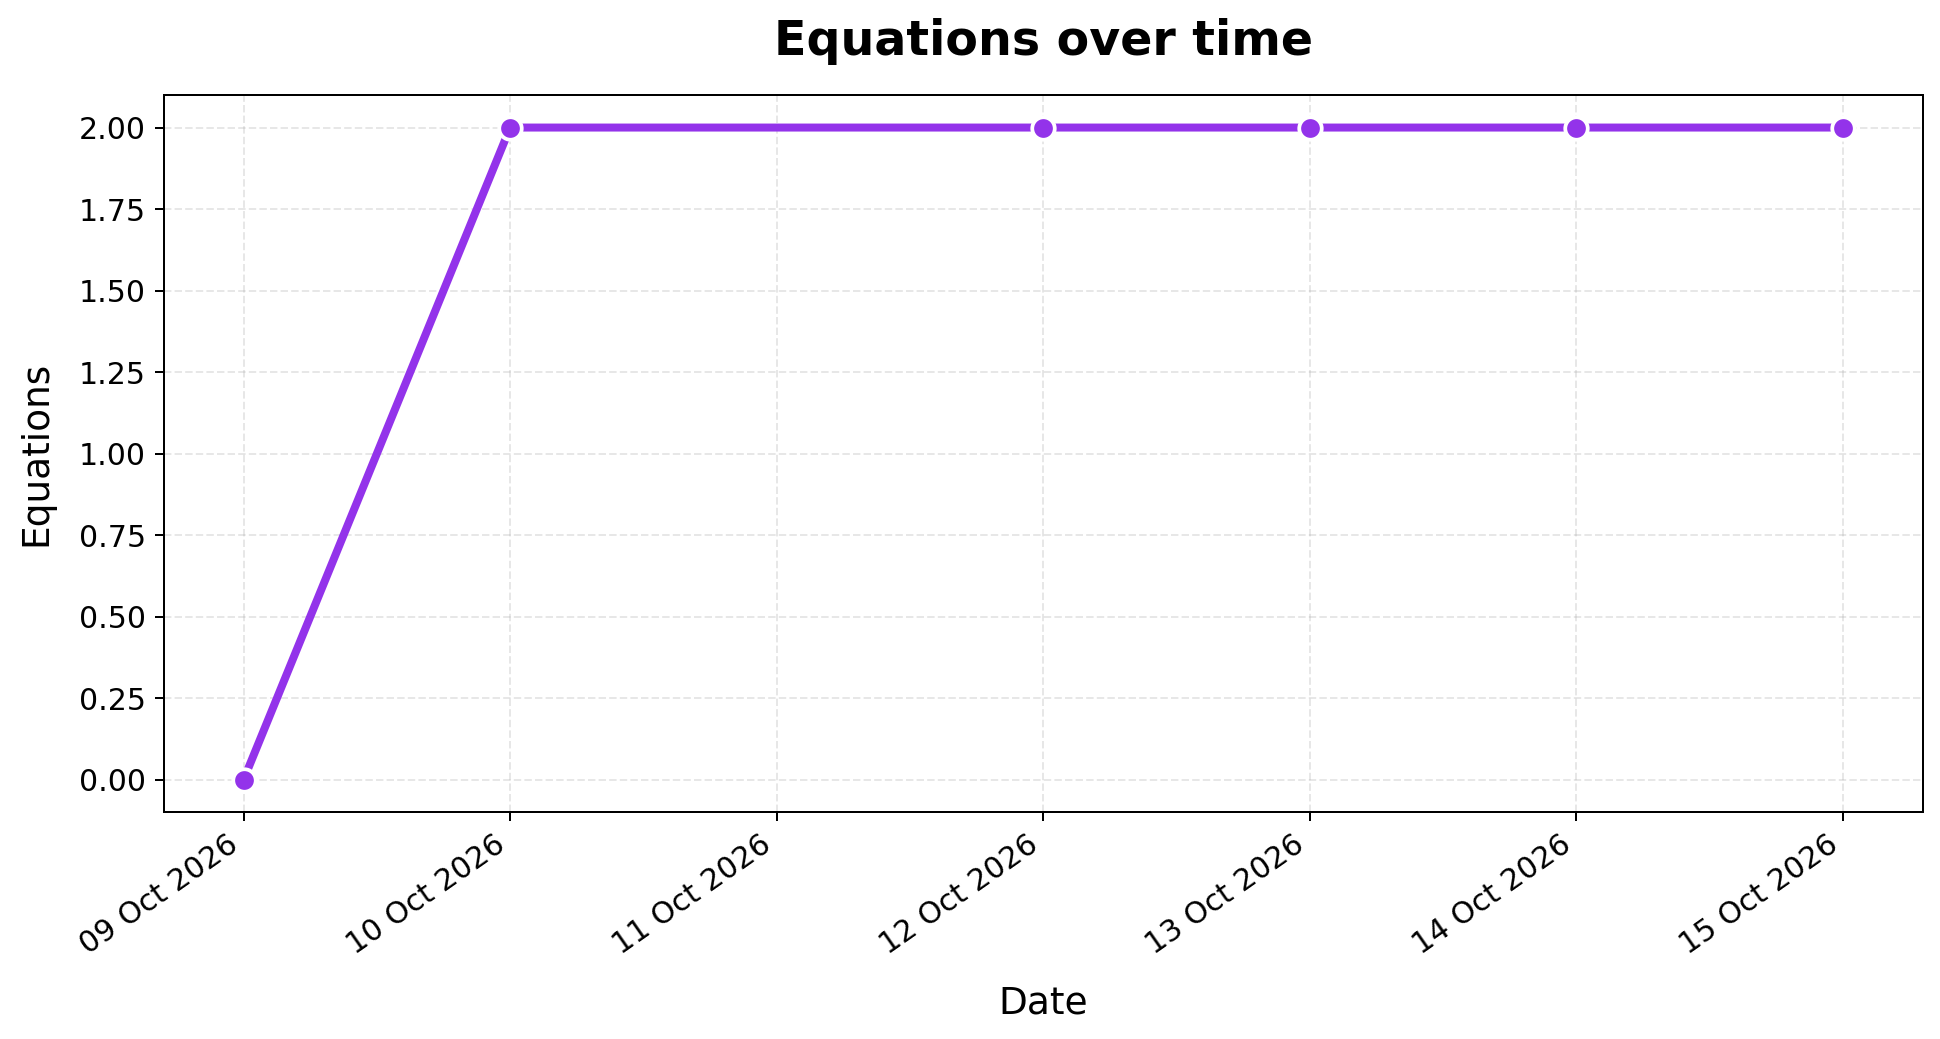
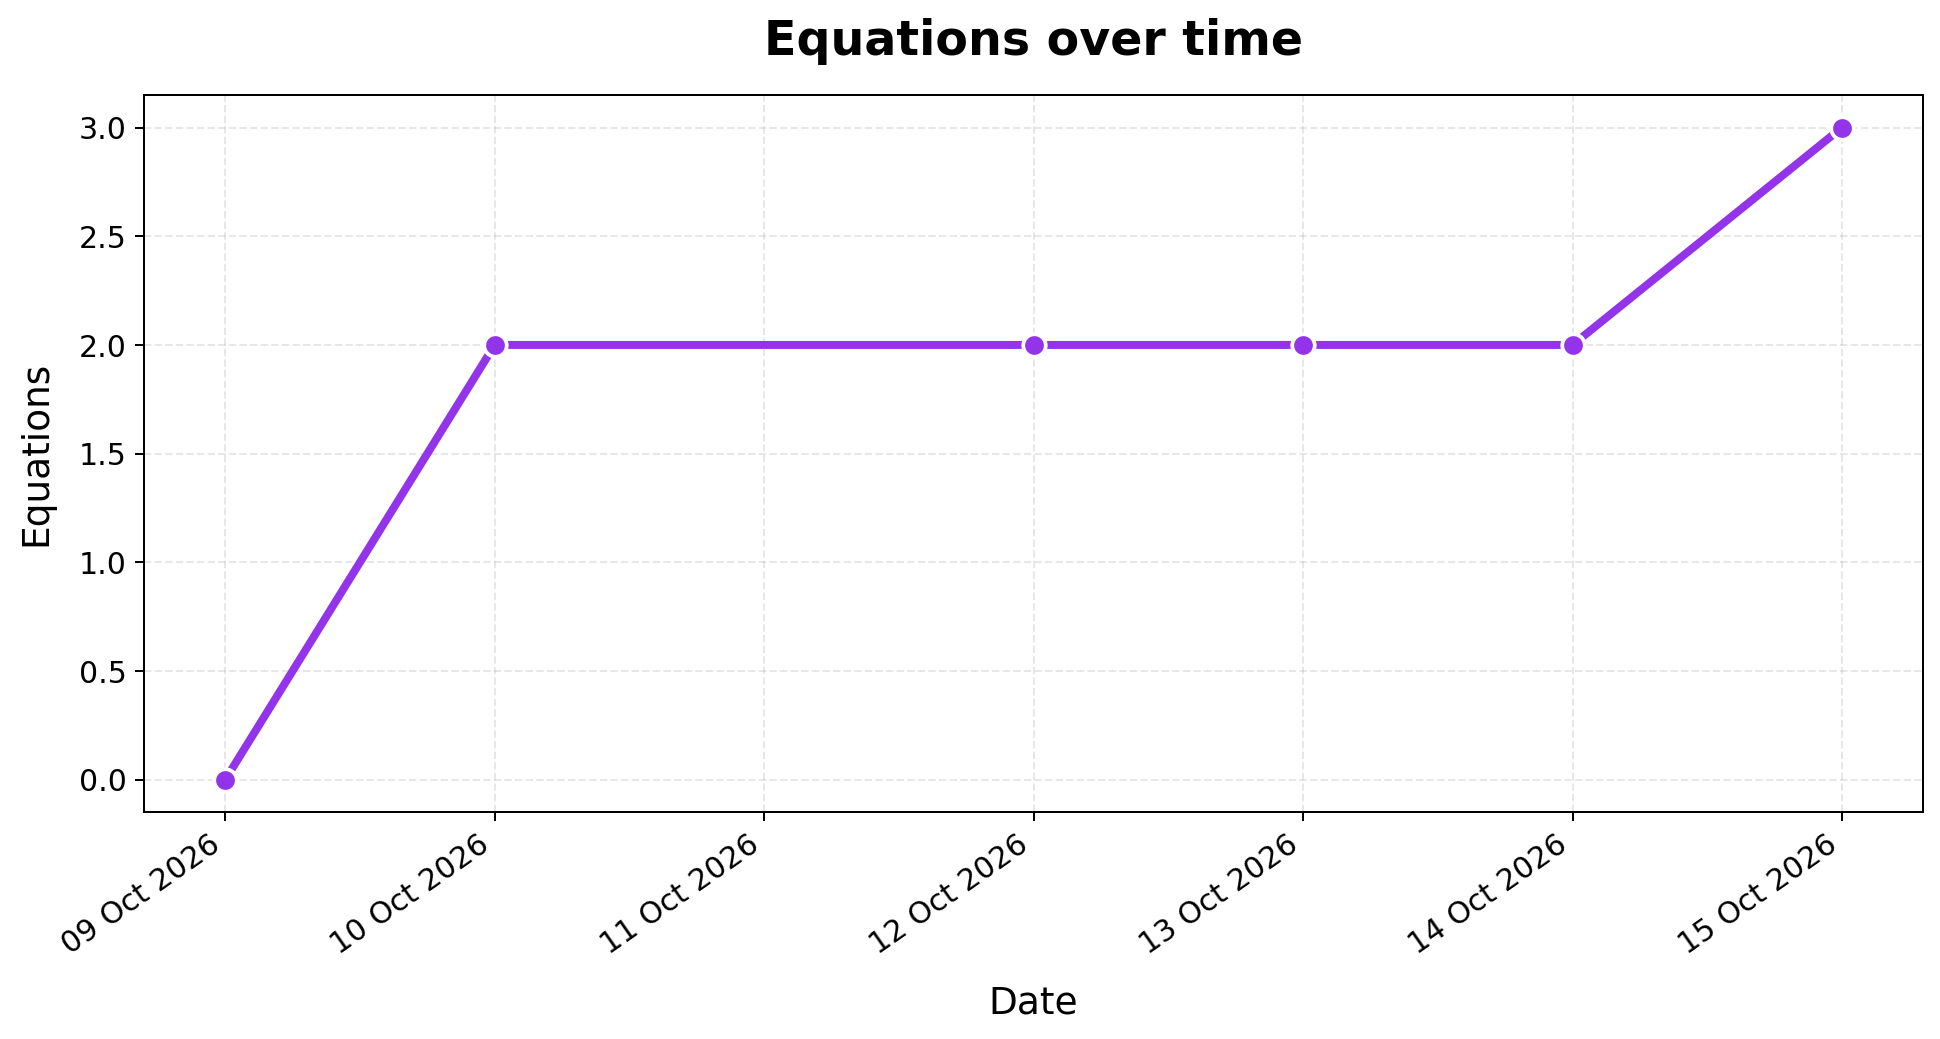
Update thesis progress dashboard

diff --git a/index.html b/index.html
@@ -12,7 +12,7 @@
     <p class="eyebrow">THESIS WRITING LOG</p>
     <h1>Thesis Progress</h1>
     <p>A visual overview of writing progress over time.</p>
-    <p class="updated">Last updated: 2026-10-15 14:08 CEST</p>
+    <p class="updated">Last updated: 2026-10-15 18:47 CEST</p>
   </header>
 
   <main>
@@ -28,30 +28,30 @@
 
         <article class="summary-card">
           <p class="summary-label">Total words</p>
-          <p class="summary-total">2,752</p>
+          <p class="summary-total">2,889</p>
           <p class="summary-change"
              style="color: #16A34A;">
-            +1,099 this week
+            +1,236 this week
           </p>
         </article>
         
 
         <article class="summary-card">
           <p class="summary-label">Total figures</p>
-          <p class="summary-total">5</p>
+          <p class="summary-total">10</p>
           <p class="summary-change"
              style="color: #16A34A;">
-            +1 this week
+            +6 this week
           </p>
         </article>
         
 
         <article class="summary-card">
           <p class="summary-label">Total equations</p>
-          <p class="summary-total">2</p>
+          <p class="summary-total">3</p>
           <p class="summary-change"
-             style="color: #64748B;">
-            No change this week
+             style="color: #16A34A;">
+            +1 this week
           </p>
         </article>
         
